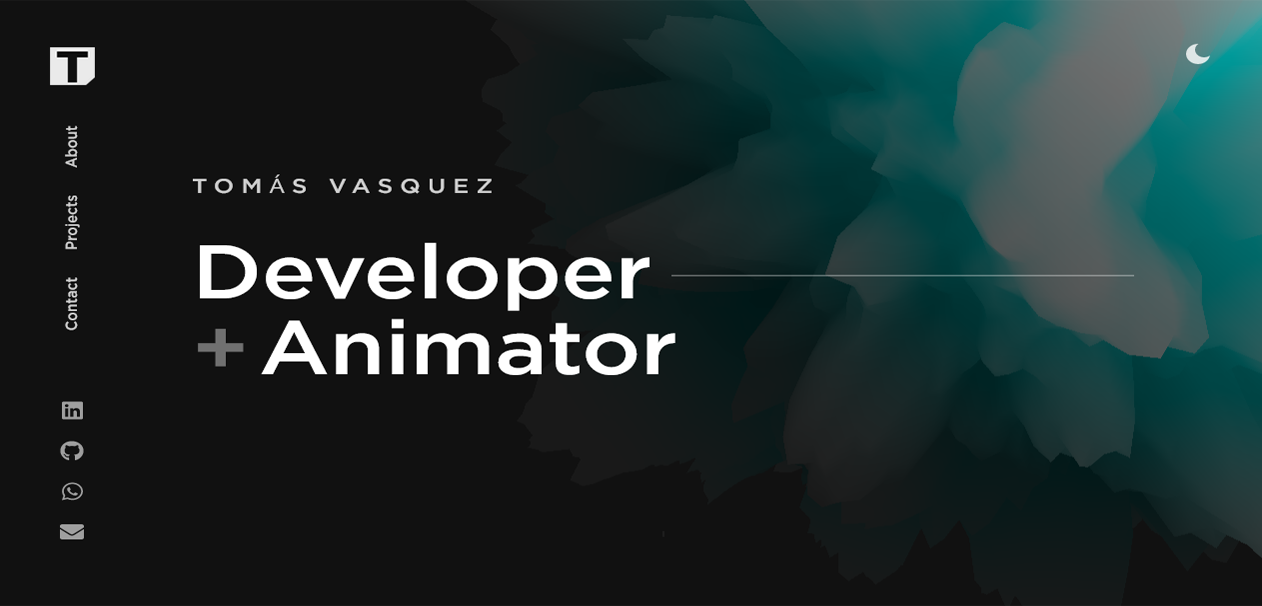
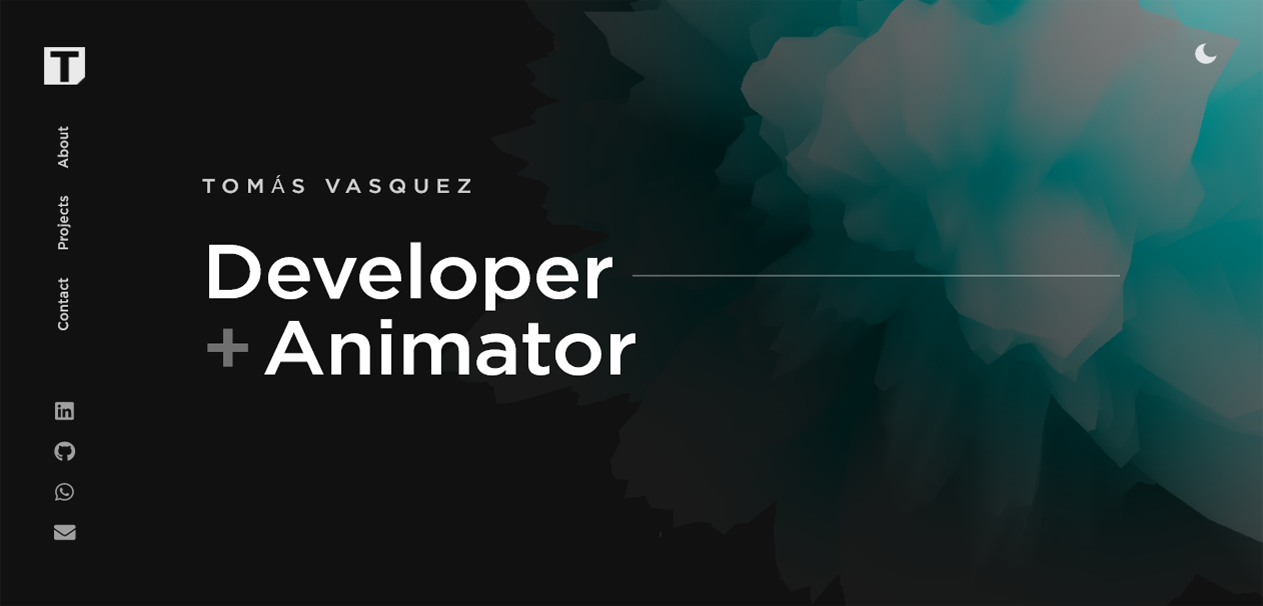
seo optimiazation

diff --git a/src/pages/Home/Contact/index.js b/src/pages/Home/Contact/index.js
@@ -53,41 +53,37 @@ export default function Contact({ id }) {
             {/* <div dangerouslySetInnerHTML={contactMe.contactMeText} /> */}
           </Col>
         </Row>
-        <div
-          className="navbar__nav-icons"
-          style={{
-            flexDirection: "row",
-            textAlign: "center",
-          }}
-        >
-          <Transition in={inView} timeout={0}>
-            {() =>
-              navbar.socialLinks.map((icon, index) => (
-                <a
-                  style={{
-                    fontSize: "64px",
-                    border: "solid 2px",
-                    borderRadius: "50%",
-                    marginLeft: "10px",
-                    marginRight: "10px",
-                  }}
-                  key={index}
-                  target="_blank"
-                  rel="noopener noreferrer"
-                  href={icon.url}
-                  aria-label={`My ${icon.icon}`}
-                  className="navbar__nav-icon-link"
-                >
-                  <Icon
-                    icon={icon.icon}
+        <div className="d-flex">
+          <div className="mx-auto d-flex">
+            <Transition in={inView} timeout={0}>
+              {() =>
+                navbar.socialLinks.map((icon, index) => (
+                  <a
                     style={{
-                      fontSize: "20px",
+                      fontSize: "64px",
+                      border: "solid 2px",
+                      borderRadius: "50%",
+                      marginLeft: "10px",
+                      marginRight: "10px",
                     }}
-                  />
-                </a>
-              ))
-            }
-          </Transition>
+                    key={index}
+                    target="_blank"
+                    rel="noopener noreferrer"
+                    href={icon.url}
+                    aria-label={`My ${icon.icon}`}
+                    className="navbar__nav-icon-link"
+                  >
+                    <Icon
+                      icon={icon.icon}
+                      style={{
+                        fontSize: "20px",
+                      }}
+                    />
+                  </a>
+                ))
+              }
+            </Transition>
+          </div>
         </div>
       </Container>
     </div>

diff --git a/src/pages/Home/Profile/Profile.css b/src/pages/Home/Profile/Profile.css
@@ -1,74 +1,3 @@
-.profile {
-  width: 100vw;
-  min-height: 100vh;
-  /* margin-top: 60px; */
-  margin-bottom: 40px;
-  padding-top: 60px;
-  padding-bottom: 40px;
-  display: flex;
-  justify-content: center;
-
-  @media (--mediaTablet) {
-    & {
-      padding-top: 50px;
-      padding-right: 80px;
-      padding-left: 160px;
-      height: auto;
-      margin-top: 40px;
-      margin-bottom: 20px;
-    }
-  }
-
-  @media (--mediaMobile) {
-    & {
-      margin-top: 0;
-      padding-top: 90px;
-      padding-left: 25px;
-      padding-right: 25px;
-      overflow-x: hidden;
-    }
-  }
-
-  @media (--mediaMobile), (max-height: 696px) {
-    & {
-      padding-right: var(--spaceOuter);
-      padding-left: var(--spaceOuter);
-    }
-  }
-
-  @media (max-width: 820px) and (max-height: 420px) {
-    & {
-      padding-right: var(--space4XL);
-      padding-left: var(--space4XL);
-    }
-  }
-}
-
-.profile__content {
-  display: grid;
-  grid-template-columns: 1fr 50%;
-  grid-column-gap: var(--space2XL);
-  max-width: var(--maxWidthL);
-  width: 100%;
-
-  @media (--mediaTablet) {
-    & {
-      max-width: 600px;
-      grid-template-columns: 100%;
-    }
-  }
-}
-
-.profile__column {
-  position: relative;
-  display: flex;
-  flex-direction: column;
-  align-items: flex-start;
-  margin-bottom: 40px;
-  transform: translate3d(0, 0, 0);
-  margin-top: -100px;
-}
-
 .profile__title {
   white-space: nowrap;
   margin-bottom: var(--spaceL);

diff --git a/src/components/Navbar/index.css b/src/components/Navbar/index.css
@@ -8,9 +8,9 @@
   padding: 0;
   width: var(--space2XL);
   position: fixed;
-  top: var(--spaceOuter);
-  left: var(--spaceOuter);
-  bottom: var(--spaceOuter);
+  top: 30px;
+  left: 40px;
+  bottom: 30px;
   z-index: 1024;
 
   @media (--mediaMobile) {
@@ -19,7 +19,7 @@
     }
   }
 
-  @media (--mediaMobile), (max-height: 696px) {
+  @media (--mediaMobile), (max-height: 640px) {
     & {
       bottom: auto;
     }
@@ -29,7 +29,7 @@
 .navbar__logo {
   display: flex;
   position: relative;
-  padding: var(--spaceS) var(--spaceS) var(--spaceL);
+  padding: var(--spaceS);
   z-index: 16;
 
   &:focus {
@@ -59,7 +59,7 @@
   position: relative;
   top: calc(var(--spaceM) * -1);
 
-  @media (--mediaMobile), (max-height: 690px) {
+  @media (--mediaMobile), (max-height: 640px) {
     & {
       display: none;
     }
@@ -134,7 +134,7 @@
   position: relative;
   z-index: 16;
 
-  @media (--mediaMobile), (max-height: 696px) {
+  @media (--mediaMobile), (max-height: 640px) {
     & {
       flex-direction: row;
       position: absolute;
@@ -203,7 +203,7 @@
   justify-content: center;
   backdrop-filter: blur(16px);
 
-  @media (--mediaMobile), (max-height: 696px) {
+  @media (--mediaMobile), (max-height: 640px) {
     & {
       display: flex;
     }

diff --git a/src/app/index.css b/src/app/index.css
@@ -14,11 +14,6 @@ body {
   overflow-x: hidden;
 }
 
-/* ::selection {
-  background: rgb(var(--rgbAccent));
-  color: rgb(var(--rgbBlack));
-} */
-
 @keyframes fade-in {
   0% {
     opacity: 0;
@@ -59,35 +54,4 @@ body {
 .skip-to-main {
   color: rgb(var(--rgbBackground));
   z-index: 128;
-
-  /* &:focus {
-    padding: var(--spaceS) var(--spaceM);
-    position: fixed;
-    top: var(--spaceM);
-    left: var(--spaceM);
-    text-decoration: none;
-    font-weight: var(--fontWeightMedium);
-    line-height: 1;
-    box-shadow: 0 0 0 4px rgb(var(--rgbBackground)),
-      0 0 0 8px rgb(var(--rgbText));
-    outline: none;
-  } */
-
-  /* &::before {
-    content: "";
-    position: absolute;
-    top: 0;
-    right: 0;
-    bottom: 0;
-    left: 0;
-    background-color: rgb(var(--rgbPrimary));
-    clip-path: polygon(
-      0 0,
-      100% 0,
-      100% calc(100% - 8px),
-      calc(100% - 8px) 100%,
-      0 100%
-    );
-    z-index: -1;
-  } */
 }

diff --git a/src/components/Navbar/index.js b/src/components/Navbar/index.js
@@ -40,7 +40,7 @@ function Header(props) {
   const { menuOpen, dispatch } = useAppContext();
   const windowSize = useWindowSize();
   const headerRef = useRef();
-  const isMobile = windowSize.width <= media.mobile || windowSize.height <= 696;
+  const isMobile = windowSize.width <= media.mobile || windowSize.height <= 640;
 
   const handleMobileNavClick = () => {
     if (menuOpen) dispatch({ type: "toggleMenu" });

diff --git a/src/components/Footer/index.js b/src/components/Footer/index.js
@@ -1,12 +1,8 @@
-import Link from "components/Link";
 import "./index.css";
 
 const Footer = () => (
   <footer className="footer project__section--light">
     <span className="footer__date">{`© ${new Date().getFullYear()} Tomás Vasquez.`}</span>
-    <Link secondary className="footer__link" href="/humans.txt" target="_self">
-      Crafted by yours truly
-    </Link>
   </footer>
 );
 

diff --git a/src/components/Icon/index.js b/src/components/Icon/index.js
@@ -17,6 +17,7 @@ import {
   faFile,
   faDownload,
   faBars,
+  faArrowRight,
 } from "@fortawesome/free-solid-svg-icons";
 import {
   faGithub,
@@ -37,6 +38,9 @@ import {
 
 const getIcon = (icon) => {
   switch (icon) {
+    case "arrowRight":
+      return faArrowRight;
+
     case "menu":
       return faBars;
 

diff --git a/src/components/Navbar/ThemeToggle.css b/src/components/Navbar/ThemeToggle.css
@@ -11,7 +11,7 @@
   margin-right: calc(var(--spaceS) * -1);
   transform: translate3d(0, 0, 0);
 
-  @media (--mediaMobile), (max-height: 696px) {
+  @media (--mediaMobile), (max-height: 640navbar__logopx) {
     &:not(.theme-toggle--mobile) {
       display: none;
     }

diff --git a/src/components/Section/index.css b/src/components/Section/index.css
@@ -22,7 +22,7 @@
     }
   }
 
-  @media (--mediaMobile), (max-height: 696px) {
+  @media (--mediaMobile), (max-height: 640px) {
     & {
       padding-left: var(--spaceOuter);
       padding-right: var(--spaceOuter);

diff --git a/src/components/Navbar/NavToggle.css b/src/components/Navbar/NavToggle.css
@@ -9,7 +9,7 @@
   z-index: 1024;
   display: none;
 
-  @media (--mediaMobile), (max-height: 696px) {
+  @media (--mediaMobile), (max-height: 640px) {
     & {
       display: flex;
     }

diff --git a/src/pages/Home/Profile/index.js b/src/pages/Home/Profile/index.js
@@ -41,7 +41,6 @@ const Profile = ({ id, visible, sectionRef }) => {
 
   return (
     <Section
-      className="profile"
       as="section"
       id={id}
       ref={sectionRef}
